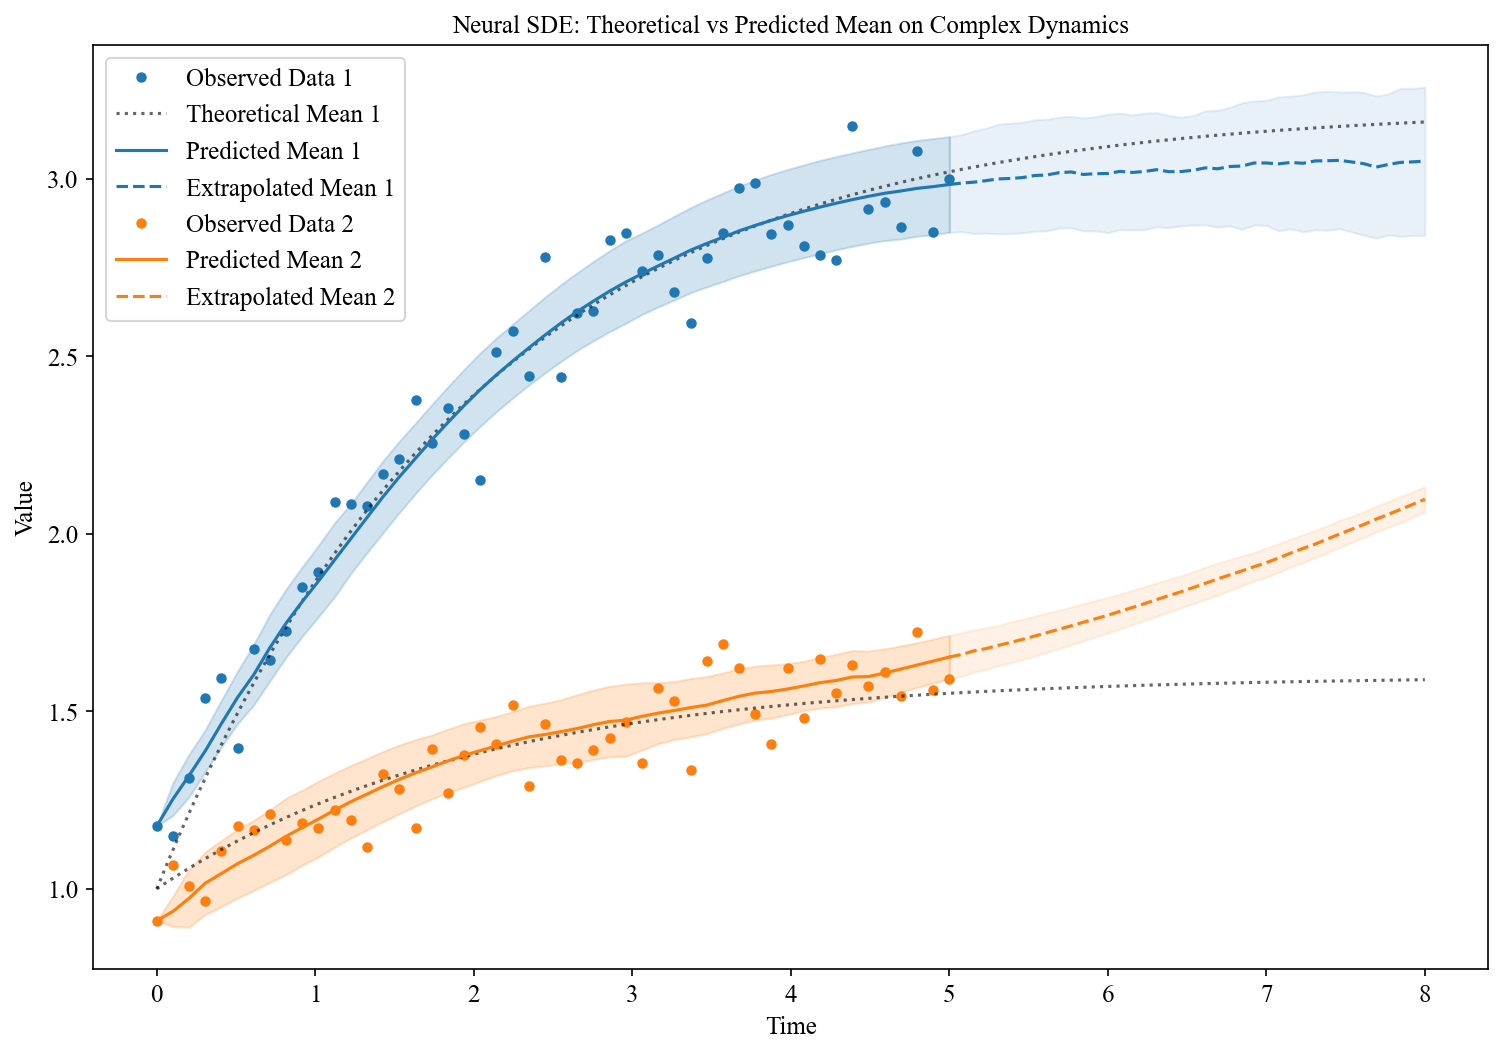
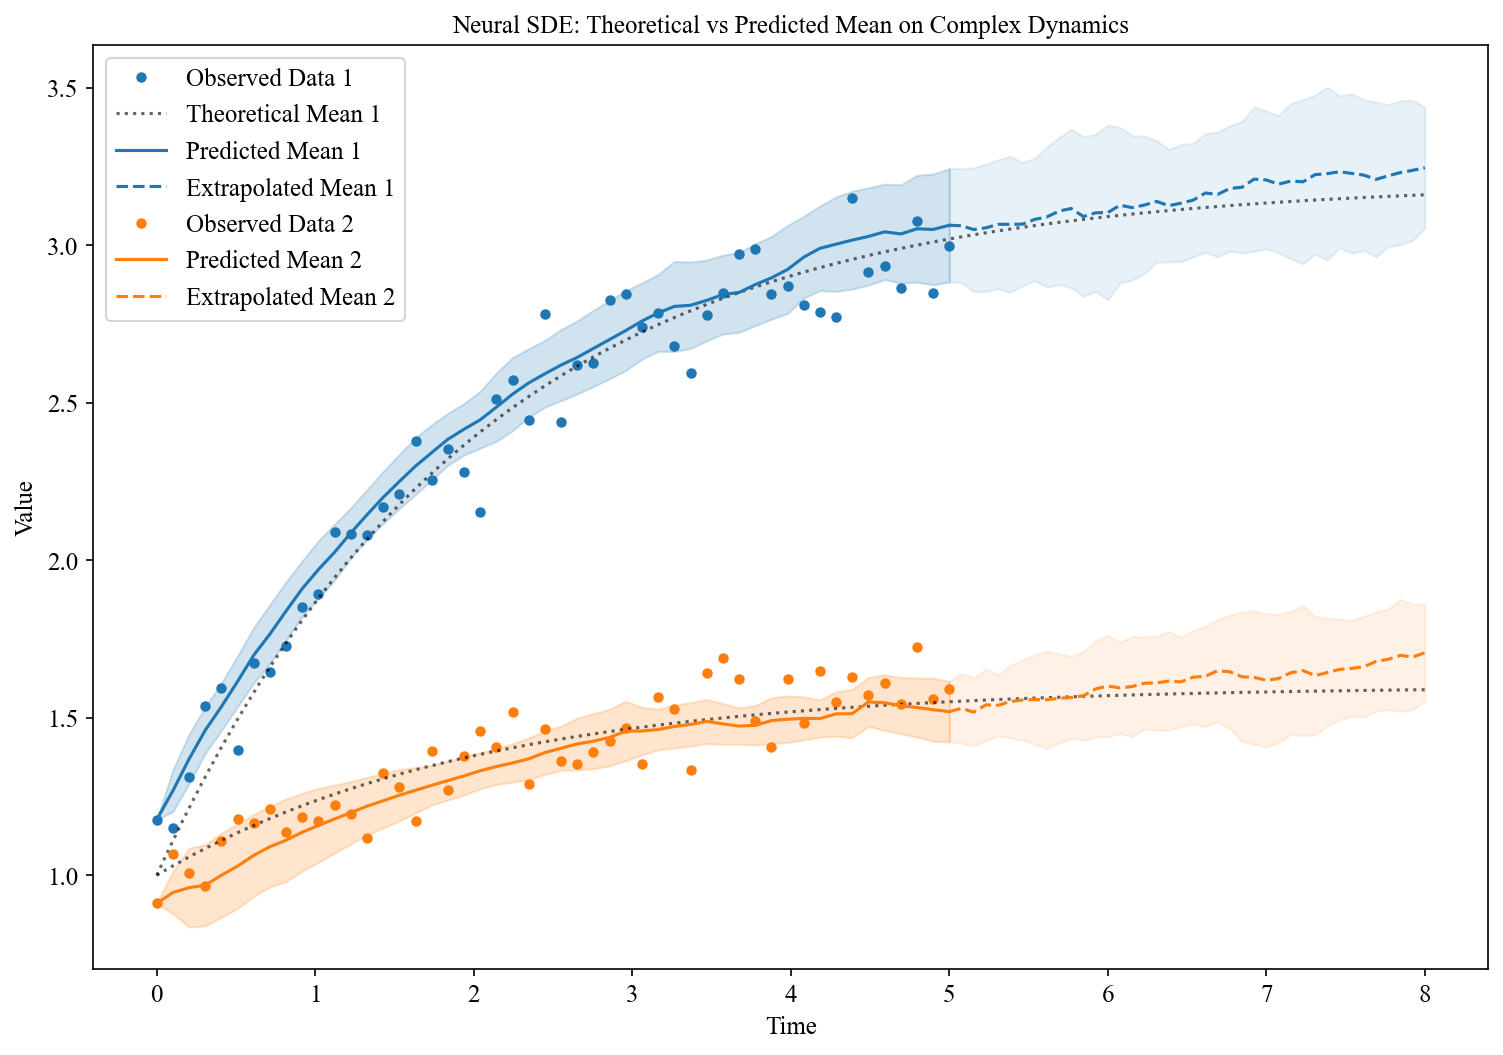
Updated Figure 4 to use autonomous drift. Well-aligned

diff --git a/papers/pavan_govindaraju/scripts/sde_ode_trajectory.py b/papers/pavan_govindaraju/scripts/sde_ode_trajectory.py
@@ -33,20 +33,17 @@ RESULTS_DIR = Path(__file__).resolve().parent.parent / "results"
 torch.manual_seed(0)
 np.random.seed(0)
 
-class FastSDE(SDE):
+class AutonomousFastSDE(SDE):
     def __init__(self, drift_nn, diffusion_nn, noise_type="diagonal", sde_type="ito", numerical_method="euler"):
         super().__init__(drift_nn, diffusion_nn, noise_type, sde_type, numerical_method)
 
     def f(self, t, y):
-        # Faster way to concatenate t: use y.new_full
-        t_tensor = y.new_full((y.shape[0], 1), t)
-        combined = torch.cat((t_tensor, y), dim=1)
-        return self.drift_nn(combined)
+        # Autonomous drift: depends on state y only
+        return self.drift_nn(y)
 
     def g(self, t, y):
-        t_tensor = y.new_full((y.shape[0], 1), t)
-        combined = torch.cat((t_tensor, y), dim=1)
-        return self.diffusion_nn(combined)
+        # Autonomous diffusion: depends on state y only
+        return self.diffusion_nn(y)
 
 class FastNeuralSDE(NeuralSDE):
     def __init__(self, drift_nn: nn.Module, diffusion_nn: nn.Module, t, data, batch_size=2, dt=0.1):
@@ -56,8 +53,8 @@ class FastNeuralSDE(NeuralSDE):
         # Initialize with standard NeuralSDE
         super().__init__(drift_nn, diffusion_nn, t, data, batch_size)
 
-        # Override with FastSDE and correct dtypes
-        self.sde = FastSDE(drift_nn, diffusion_nn)
+        # Override with AutonomousFastSDE and correct dtypes
+        self.sde = AutonomousFastSDE(drift_nn, diffusion_nn)
         self.dt = dt
 
         # Ensure all tensors match the NN dtype
@@ -87,7 +84,9 @@ class FastNeuralSDE(NeuralSDE):
 
         return nll
 
-    def train(self, num_epochs, print_every=100):
+    def train(self, num_epochs, print_every=100, lr=0.01):
+        self.sde.drift_opt = torch.optim.Adam(self.sde.drift_nn.parameters(), lr=lr)
+        self.sde.diffusion_opt = torch.optim.Adam(self.sde.diffusion_nn.parameters(), lr=lr)
         for i in tqdm(range(num_epochs)):
             self.sde.drift_opt.zero_grad()
             self.sde.diffusion_opt.zero_grad()
@@ -117,15 +116,15 @@ def run_ode_trajectory_sde_example():
     data = np.stack([y1, y2], axis=1)
 
     # Use float32 for speed
-    # Input dim = 1 (time) + 2 (data dim) = 3
+    # Autonomous formulation: Input dim = 2 (data dim y only)
     drift_nn = nn.Sequential(
-        nn.Linear(3, 20),
+        nn.Linear(2, 20),
         nn.Tanh(),
         nn.Linear(20, 2)
     )
 
     diffusion_nn = nn.Sequential(
-        nn.Linear(3, 20),
+        nn.Linear(2, 20),
         nn.Tanh(),
         nn.Linear(20, 2)
     )
@@ -133,7 +132,7 @@ def run_ode_trajectory_sde_example():
     # Initialize and train the optimized SDE model
     # Using batch_size=20 and dt=0.1 for speed and stability
     sde = FastNeuralSDE(drift_nn, diffusion_nn, t, data, batch_size=20, dt=0.1)
-    sde.train(num_epochs=500, print_every=50)
+    sde.train(num_epochs=500, print_every=50, lr=0.01)
 
     # Extrapolate
     tf_extra = 8
